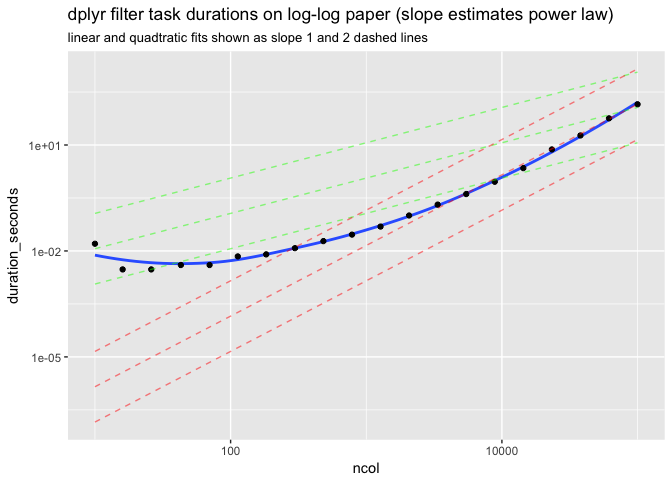
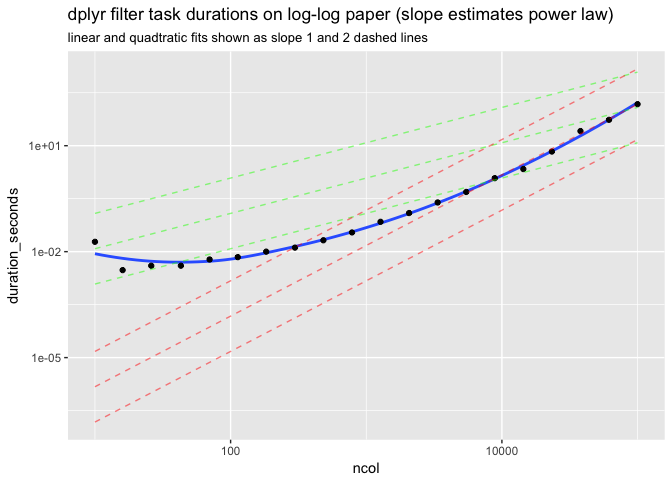
re-run with an explicit gc

diff --git a/dplyr/filter.md b/dplyr/filter.md
@@ -13,7 +13,7 @@ system.time(write_feather(df, "df.feather"))
 ```
 
     ##    user  system elapsed 
-    ##   0.306   0.261   0.604
+    ##   0.275   0.202   0.486
 
 [R](https://www.r-project.org) timing.
 
@@ -22,7 +22,7 @@ system.time(fetched_sample <- df[df$V1>1, , drop=FALSE])
 ```
 
     ##    user  system elapsed 
-    ##   0.678   0.011   0.697
+    ##   0.692   0.008   0.702
 
 [dplyr](https://CRAN.R-project.org/package=dplyr) timing.
 
@@ -35,7 +35,7 @@ system.time(fetched_sample <- filter(tb, V1>1))
 ```
 
     ##    user  system elapsed 
-    ## 130.345   8.316 139.760
+    ## 140.532   9.561 157.480
 
 [data.table](https://CRAN.R-project.org/package=data.table) timing.
 
@@ -44,11 +44,11 @@ library("data.table")
 
 dt <- data.table(df)
 
-system.time(dt[V1>1, ])
+system.time(dfr <- dt[V1>1, ])
 ```
 
     ##    user  system elapsed 
-    ##   1.658   0.005   1.667
+    ##   1.910   0.060   2.059
 
 [Python](https://www.python.org) [Pandas](https://pandas.pydata.org) timing.
 
@@ -75,7 +75,7 @@ end_time = timeit.default_timer()
 print(end_time - start_time)
 ```
 
-    ## 1.749638623005012
+    ## 2.20009984401986
 
 ``` python
 start_time = timeit.default_timer()
@@ -86,7 +86,9 @@ end_time = timeit.default_timer()
 print(end_time - start_time)
 ```
 
-    ## 3.872192738999729
+    ## 5.1335013120260555
+
+Characterize dplyr dependence on column count.
 
 ``` r
 library("ggplot2")
@@ -102,6 +104,7 @@ frames <- lapply(
                                ncol = nc,
                                data = 0.0))
     tb <- as_tibble(df)
+    gc()
     ti <- system.time(fetched_sample <- filter(tb, V1>1))
     data.frame(ncol = nc, 
                duration_seconds = as.numeric(ti[["elapsed"]]))
